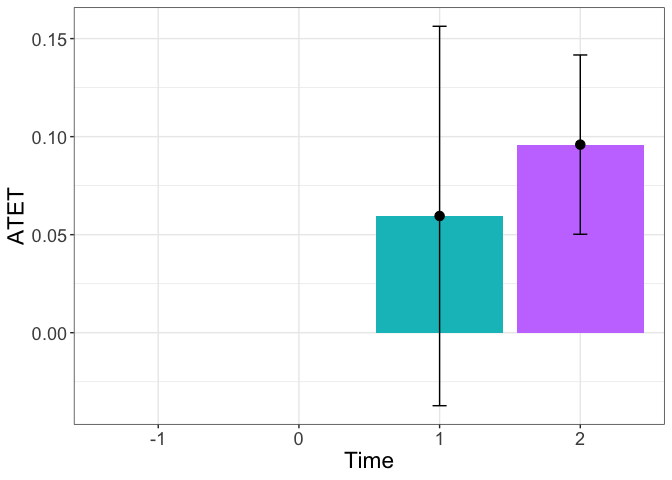
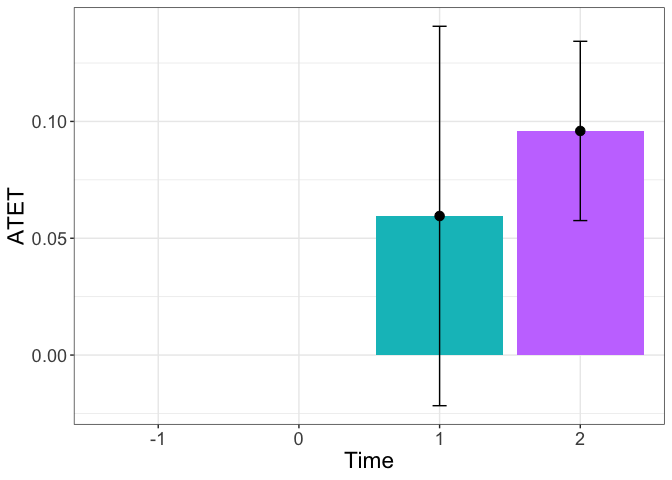
V1.0

diff --git a/docs/index.html b/docs/index.html
@@ -697,10 +697,13 @@
 <h4 id="time">time<a class="anchor" aria-label="anchor" href="#time"></a>
 </h4>
 <p>The heterogenous treatment effects over time show that the effect is significant in the second year after the treatment.</p>
+<blockquote>
+<p>Note that the graph shows the <strong>90%</strong> confidence interval bygiving the option <code>level = 90</code>.</p>
+</blockquote>
 <div class="sourceCode" id="cb30"><pre class="downlit sourceCode r">
 <code class="sourceCode R"><span><span class="va">tym1b_gr_time</span> <span class="op">&lt;-</span> <span class="fu"><a href="reference/didnpplot.html">didnpplot</a></span><span class="op">(</span></span>
 <span>  obj <span class="op">=</span> <span class="va">tym1b</span>,</span>
-<span>  level <span class="op">=</span> <span class="fl">95</span>,</span>
+<span>  level <span class="op">=</span> <span class="fl">90</span>,</span>
 <span>  by <span class="op">=</span> <span class="fu"><a href="https://rdrr.io/r/base/factor.html" class="external-link">factor</a></span><span class="op">(</span><span class="va">d0</span><span class="op">$</span><span class="va">t</span><span class="op">)</span><span class="op">[</span><span class="va">tym1b</span><span class="op">$</span><span class="va">esample</span><span class="op">]</span><span class="op">[</span><span class="va">tym1b</span><span class="op">$</span><span class="va">sample1</span><span class="op">]</span>,</span>
 <span>  xlab <span class="op">=</span> <span class="st">"Time"</span>,</span>
 <span>  ylab <span class="op">=</span> <span class="st">"ATET"</span></span>
@@ -772,7 +775,7 @@
 <div class="section level3">
 <h3 id="by-continuous-unemp">‘by’ continuous: unemp<a class="anchor" aria-label="anchor" href="#by-continuous-unemp"></a>
 </h3>
-<p>When the ‘by’ variable is continuous the <strong>didnpplot</strong> offers three ways of plotting the heterogeneous treatment effects.</p>
+<p>When the ‘by’ variable is continuous (the <strong>didnpplot</strong> command will recognize if <code>by</code> is a continuous variable) the <strong>didnpplot</strong> offers three ways of plotting the heterogeneous treatment effects.</p>
 <div class="section level4">
 <h4 id="scale-of-the-continuous-by-is-its-range">Scale of the continuous ‘by’ is its range<a class="anchor" aria-label="anchor" href="#scale-of-the-continuous-by-is-its-range"></a>
 </h4>
@@ -825,12 +828,20 @@
 <p><img src="reference/figures/README-tym1b_gr_unemp_each_value-2.png"><!-- --></p>
 <div class="sourceCode" id="cb38"><pre class="downlit sourceCode r">
 <code class="sourceCode R"><span><span class="co"># ggsave(paste0("atet_ci_unemp_numeric.pdf"), width = 15, height = 10, units = c("cm"))</span></span></code></pre></div>
+<p>Ameding ggplot object is easy. For example adding a 0 horizontal line is</p>
+<div class="sourceCode" id="cb39"><pre class="downlit sourceCode r">
+<code class="sourceCode R"><span><span class="va">tym1b_gr_unemp_each_value</span><span class="op">$</span><span class="va">plot.a</span> <span class="op">+</span></span>
+<span>  <span class="fu"><a href="https://ggplot2.tidyverse.org/reference/geom_abline.html" class="external-link">geom_hline</a></span><span class="op">(</span>yintercept <span class="op">=</span> <span class="fl">0</span><span class="op">)</span></span></code></pre></div>
+<p><img src="reference/figures/README-gr_age2-1.png"><!-- --></p>
+<blockquote>
+<p>Anternatively, one can use the <code>data.a</code> and <code>data.b</code> objects to plot from scratch.</p>
+</blockquote>
 </div>
 <div class="section level4">
 <h4 id="scale-of-the-continuous-by-intervals">Scale of the continuous ‘by’ intervals<a class="anchor" aria-label="anchor" href="#scale-of-the-continuous-by-intervals"></a>
 </h4>
 <p>Setting <code>by.continuous.scale</code> to a single number, instructs <strong>didnpplot</strong> to split the range of the continuous ‘by’ variable into the number of intervals specified by <code>by.continuous.scale</code> and plot ATET by intervals.</p>
-<div class="sourceCode" id="cb39"><pre class="downlit sourceCode r">
+<div class="sourceCode" id="cb40"><pre class="downlit sourceCode r">
 <code class="sourceCode R"><span><span class="va">tym1b_gr_unemp_n_intervals</span> <span class="op">&lt;-</span> <span class="fu"><a href="reference/didnpplot.html">didnpplot</a></span><span class="op">(</span></span>
 <span>  obj <span class="op">=</span> <span class="va">tym1b</span>,</span>
 <span>  level <span class="op">=</span> <span class="fl">95</span>,</span>
@@ -861,7 +872,7 @@
 <span><span class="co">#R&gt;  10  (9.3,9.97] -0.04334175 0.10649708    34       20</span></span>
 <span><span class="va">tym1b_gr_unemp_n_intervals</span><span class="op">$</span><span class="va">plot.a</span></span></code></pre></div>
 <p><img src="reference/figures/README-tym1b_gr_unemp_n_intervals-1.png"><!-- --></p>
-<div class="sourceCode" id="cb40"><pre class="downlit sourceCode r">
+<div class="sourceCode" id="cb41"><pre class="downlit sourceCode r">
 <code class="sourceCode R"><span><span class="co"># B</span></span>
 <span><span class="va">tym1b_gr_unemp_n_intervals</span><span class="op">$</span><span class="va">data.b</span></span>
 <span><span class="co">#R&gt;              by          atet    atet.sd count bySorted</span></span>
@@ -877,14 +888,14 @@
 <span><span class="co">#R&gt;  3  (12.7,13.7] -0.2578154370 0.41340096    45       20</span></span>
 <span><span class="va">tym1b_gr_unemp_n_intervals</span><span class="op">$</span><span class="va">plot.b</span></span></code></pre></div>
 <p><img src="reference/figures/README-tym1b_gr_unemp_n_intervals-2.png"><!-- --></p>
-<div class="sourceCode" id="cb41"><pre class="downlit sourceCode r">
+<div class="sourceCode" id="cb42"><pre class="downlit sourceCode r">
 <code class="sourceCode R"><span><span class="co"># ggsave(paste0("atet_ci_unemp_intervals.pdf"), width = 15, height = 10, units = c("cm"))</span></span></code></pre></div>
 </div>
 <div class="section level4">
 <h4 id="scale-of-the-continuous-by-a-vector">Scale of the continuous ‘by’ a vector<a class="anchor" aria-label="anchor" href="#scale-of-the-continuous-by-a-vector"></a>
 </h4>
 <p>Setting <code>by.continuous.scale</code> to a single number, instructs <strong>didnpplot</strong> to split the range of the continuous ‘by’ variable into intervals defined by the specified vector and plot ATET by intervals.</p>
-<div class="sourceCode" id="cb42"><pre class="downlit sourceCode r">
+<div class="sourceCode" id="cb43"><pre class="downlit sourceCode r">
 <code class="sourceCode R"><span><span class="va">tym1b_gr_unemp_vector_breaks</span> <span class="op">&lt;-</span> <span class="fu"><a href="reference/didnpplot.html">didnpplot</a></span><span class="op">(</span></span>
 <span>  obj <span class="op">=</span> <span class="va">tym1b</span>,</span>
 <span>  level <span class="op">=</span> <span class="fl">95</span>,</span>
@@ -910,7 +921,7 @@
 <span><span class="co">#R&gt;  4 (9,9.97] -0.02483015 0.07955994   506       15</span></span>
 <span><span class="va">tym1b_gr_unemp_vector_breaks</span><span class="op">$</span><span class="va">plot.a</span></span></code></pre></div>
 <p><img src="reference/figures/README-tym1b_gr_unemp_vector_breaks-1.png"><!-- --></p>
-<div class="sourceCode" id="cb43"><pre class="downlit sourceCode r">
+<div class="sourceCode" id="cb44"><pre class="downlit sourceCode r">
 <code class="sourceCode R"><span><span class="co"># B</span></span>
 <span><span class="va">tym1b_gr_unemp_vector_breaks</span><span class="op">$</span><span class="va">data.b</span></span>
 <span><span class="co">#R&gt;           by        atet    atet.sd count bySorted</span></span>
@@ -922,7 +933,7 @@
 <span><span class="co">#R&gt;  1 (12,13.7] -0.18357535 0.38223899   529       16</span></span>
 <span><span class="va">tym1b_gr_unemp_vector_breaks</span><span class="op">$</span><span class="va">plot.b</span></span></code></pre></div>
 <p><img src="reference/figures/README-tym1b_gr_unemp_vector_breaks-2.png"><!-- --></p>
-<div class="sourceCode" id="cb44"><pre class="downlit sourceCode r">
+<div class="sourceCode" id="cb45"><pre class="downlit sourceCode r">
 <code class="sourceCode R"><span><span class="co"># ggsave(paste0("atet_ci_unemp_breaks.pdf"), width = 15, height = 10, units = c("cm"))</span></span></code></pre></div>
 </div>
 </div>
@@ -936,7 +947,7 @@
 <h4 id="by-sex-over-is-time">‘by’: sex; ‘over’ is time<a class="anchor" aria-label="anchor" href="#by-sex-over-is-time"></a>
 </h4>
 <p>This is an example with treatment effects by sex over time.</p>
-<div class="sourceCode" id="cb45"><pre class="downlit sourceCode r">
+<div class="sourceCode" id="cb46"><pre class="downlit sourceCode r">
 <code class="sourceCode R"><span><span class="va">tym1b_gr_sex_time</span> <span class="op">&lt;-</span> <span class="fu"><a href="reference/didnpplot.html">didnpplot</a></span><span class="op">(</span></span>
 <span>  obj <span class="op">=</span> <span class="va">tym1b</span>,</span>
 <span>  level <span class="op">=</span> <span class="fl">95</span>,</span>
@@ -959,7 +970,7 @@
 <span><span class="co">#R&gt;  4  0.10445169 0.03725823   429 Female     2    2         14</span></span>
 <span><span class="va">tym1b_gr_sex_time</span><span class="op">$</span><span class="va">plot.a</span></span></code></pre></div>
 <p><img src="reference/figures/README-tym1b_gr_sex_time-1.png"><!-- --></p>
-<div class="sourceCode" id="cb46"><pre class="downlit sourceCode r">
+<div class="sourceCode" id="cb47"><pre class="downlit sourceCode r">
 <code class="sourceCode R"><span><span class="co"># B</span></span>
 <span><span class="va">tym1b_gr_sex_time</span><span class="op">$</span><span class="va">data.b</span></span>
 <span><span class="co">#R&gt;           atet    atet.sd count     by byold over overSorted bySorted</span></span>
@@ -973,14 +984,14 @@
 <span><span class="co">#R&gt;  4  0.08667750 0.06857070   395   Male     1    2         14       12</span></span>
 <span><span class="va">tym1b_gr_sex_time</span><span class="op">$</span><span class="va">plot.b</span></span></code></pre></div>
 <p><img src="reference/figures/README-tym1b_gr_sex_time-2.png"><!-- --></p>
-<div class="sourceCode" id="cb47"><pre class="downlit sourceCode r">
+<div class="sourceCode" id="cb48"><pre class="downlit sourceCode r">
 <code class="sourceCode R"><span><span class="co"># ggsave(paste0("atet_ci_sex_time.pdf"), width = 15, height = 10, units = c("cm"))</span></span></code></pre></div>
 </div>
 <div class="section level4">
 <h4 id="by-time-over-is-sex">‘by’: time; ‘over’ is sex<a class="anchor" aria-label="anchor" href="#by-time-over-is-sex"></a>
 </h4>
 <p>This is an example with treatment effects by time over sex, reversing the order of the previous graph.</p>
-<div class="sourceCode" id="cb48"><pre class="downlit sourceCode r">
+<div class="sourceCode" id="cb49"><pre class="downlit sourceCode r">
 <code class="sourceCode R"><span><span class="va">tym1b_gr_time_sex</span> <span class="op">&lt;-</span> <span class="fu"><a href="reference/didnpplot.html">didnpplot</a></span><span class="op">(</span></span>
 <span>  obj <span class="op">=</span> <span class="va">tym1b</span>,</span>
 <span>  level <span class="op">=</span> <span class="fl">95</span>,</span>
@@ -1003,7 +1014,7 @@
 <span><span class="co">#R&gt;  4  0.10445169 0.03725823   429  2 Female       2         12</span></span>
 <span><span class="va">tym1b_gr_time_sex</span><span class="op">$</span><span class="va">plot.a</span></span></code></pre></div>
 <p><img src="reference/figures/README-tym1b_gr_time_sex-1.png"><!-- --></p>
-<div class="sourceCode" id="cb49"><pre class="downlit sourceCode r">
+<div class="sourceCode" id="cb50"><pre class="downlit sourceCode r">
 <code class="sourceCode R"><span><span class="co"># B</span></span>
 <span><span class="va">tym1b_gr_time_sex</span><span class="op">$</span><span class="va">data.b</span></span>
 <span><span class="co">#R&gt;           atet    atet.sd count by   over overold overSorted bySorted</span></span>
@@ -1017,8 +1028,26 @@
 <span><span class="co">#R&gt;  8  0.10445169 0.03725823   429  2 Female       2         12       14</span></span>
 <span><span class="va">tym1b_gr_time_sex</span><span class="op">$</span><span class="va">plot.b</span></span></code></pre></div>
 <p><img src="reference/figures/README-tym1b_gr_time_sex-2.png"><!-- --></p>
-<div class="sourceCode" id="cb50"><pre class="downlit sourceCode r">
+<div class="sourceCode" id="cb51"><pre class="downlit sourceCode r">
 <code class="sourceCode R"><span><span class="co"># ggsave(paste0("atet_ci_time_sex.pdf"), width = 15, height = 10, units = c("cm"))</span></span></code></pre></div>
+<blockquote>
+<p>Alternatively use the data from the object <code>tym1b_gr_time_sex</code></p>
+</blockquote>
+<p>to produce another type of graph:</p>
+<div class="sourceCode" id="cb52"><pre class="downlit sourceCode r">
+<code class="sourceCode R"><span><span class="va">crit.value</span> <span class="op">&lt;-</span> <span class="fl">2</span></span>
+<span><span class="va">pd</span> <span class="op">&lt;-</span> <span class="fu"><a href="https://ggplot2.tidyverse.org/reference/position_dodge.html" class="external-link">position_dodge</a></span><span class="op">(</span><span class="fl">0.1</span><span class="op">)</span> <span class="co"># move them .05 to the left and right</span></span>
+<span><span class="va">d1</span> <span class="op">&lt;-</span> <span class="va">tym1b_gr_time_sex</span><span class="op">$</span><span class="va">data.b</span></span>
+<span><span class="va">d1</span><span class="op">$</span><span class="va">Sex</span> <span class="op">&lt;-</span> <span class="va">d1</span><span class="op">$</span><span class="va">over</span></span>
+<span><span class="fu"><a href="https://ggplot2.tidyverse.org/reference/ggplot.html" class="external-link">ggplot</a></span><span class="op">(</span><span class="va">d1</span>, <span class="fu"><a href="https://ggplot2.tidyverse.org/reference/aes.html" class="external-link">aes</a></span><span class="op">(</span>x <span class="op">=</span> <span class="va">by</span>, y <span class="op">=</span> <span class="va">atet</span>, color <span class="op">=</span> <span class="va">Sex</span>, group <span class="op">=</span> <span class="va">Sex</span><span class="op">)</span><span class="op">)</span> <span class="op">+</span></span>
+<span>  <span class="fu"><a href="https://ggplot2.tidyverse.org/reference/geom_linerange.html" class="external-link">geom_errorbar</a></span><span class="op">(</span><span class="fu"><a href="https://ggplot2.tidyverse.org/reference/aes.html" class="external-link">aes</a></span><span class="op">(</span>ymin <span class="op">=</span> <span class="va">atet</span> <span class="op">-</span> <span class="va">crit.value</span><span class="op">*</span><span class="va">atet.sd</span>, ymax <span class="op">=</span> <span class="va">atet</span> <span class="op">+</span> <span class="va">crit.value</span><span class="op">*</span><span class="va">atet.sd</span><span class="op">)</span>, color <span class="op">=</span> <span class="st">"black"</span>, width <span class="op">=</span> <span class="fl">.1</span>, position <span class="op">=</span> <span class="va">pd</span><span class="op">)</span> <span class="op">+</span></span>
+<span>  <span class="fu"><a href="https://ggplot2.tidyverse.org/reference/geom_path.html" class="external-link">geom_line</a></span><span class="op">(</span>position <span class="op">=</span> <span class="va">pd</span><span class="op">)</span> <span class="op">+</span></span>
+<span>  <span class="fu"><a href="https://ggplot2.tidyverse.org/reference/geom_point.html" class="external-link">geom_point</a></span><span class="op">(</span>position <span class="op">=</span> <span class="va">pd</span>, size <span class="op">=</span> <span class="fl">3</span>, shape <span class="op">=</span> <span class="fl">21</span>, fill <span class="op">=</span> <span class="st">"white"</span><span class="op">)</span> <span class="op">+</span></span>
+<span>  <span class="fu"><a href="https://ggplot2.tidyverse.org/reference/labs.html" class="external-link">xlab</a></span><span class="op">(</span><span class="st">"Time"</span><span class="op">)</span> <span class="op">+</span></span>
+<span>  <span class="fu"><a href="https://ggplot2.tidyverse.org/reference/labs.html" class="external-link">ylab</a></span><span class="op">(</span><span class="st">"ATET"</span><span class="op">)</span> <span class="op">+</span></span>
+<span>  <span class="fu"><a href="https://ggplot2.tidyverse.org/reference/ggtheme.html" class="external-link">theme_bw</a></span><span class="op">(</span><span class="op">)</span> <span class="op">+</span></span>
+<span>  <span class="fu"><a href="https://ggplot2.tidyverse.org/reference/theme.html" class="external-link">theme</a></span><span class="op">(</span>legend.position <span class="op">=</span> <span class="st">"right"</span>, text <span class="op">=</span> <span class="fu"><a href="https://ggplot2.tidyverse.org/reference/element.html" class="external-link">element_text</a></span><span class="op">(</span>size <span class="op">=</span> <span class="fl">17</span><span class="op">)</span><span class="op">)</span></span></code></pre></div>
+<p><img src="reference/figures/README-gr_age_race2-1.png"><!-- --></p>
 </div>
 </div>
 <div class="section level3">
@@ -1029,7 +1058,7 @@
 <h4 id="scale-of-the-continuous-by-is-its-range-1">Scale of the continuous ‘by’ is its range<a class="anchor" aria-label="anchor" href="#scale-of-the-continuous-by-is-its-range-1"></a>
 </h4>
 <p><code>by.continuous.scale</code> is not specified or <code>NULL</code>.</p>
-<div class="sourceCode" id="cb51"><pre class="downlit sourceCode r">
+<div class="sourceCode" id="cb53"><pre class="downlit sourceCode r">
 <code class="sourceCode R"><span><span class="va">tym1b_gr_unemp_each_value_sex</span> <span class="op">&lt;-</span> <span class="fu"><a href="reference/didnpplot.html">didnpplot</a></span><span class="op">(</span></span>
 <span>  obj <span class="op">=</span> <span class="va">tym1b</span>,</span>
 <span>  level <span class="op">=</span> <span class="fl">95</span>,</span>
@@ -1056,7 +1085,7 @@
 <span><span class="co">#R&gt;  6   -0.56573149 0.2873870     3 4.208333   Male       1       14</span></span>
 <span><span class="va">tym1b_gr_unemp_each_value_sex</span><span class="op">$</span><span class="va">plot.a</span></span></code></pre></div>
 <p><img src="reference/figures/README-tym1b_gr_unemp_each_value_sex-1.png"><!-- --></p>
-<div class="sourceCode" id="cb52"><pre class="downlit sourceCode r">
+<div class="sourceCode" id="cb54"><pre class="downlit sourceCode r">
 <code class="sourceCode R"><span><span class="co"># B</span></span>
 <span><span class="fu"><a href="https://rdrr.io/r/utils/head.html" class="external-link">head</a></span><span class="op">(</span><span class="va">tym1b_gr_unemp_each_value_sex</span><span class="op">$</span><span class="va">data.b</span><span class="op">)</span></span>
 <span><span class="co">#R&gt;             atet    atet.sd count       by   over overold bySorted</span></span>
@@ -1068,14 +1097,14 @@
 <span><span class="co">#R&gt;  120 -0.13106238 0.09535865   117 8.191667 Female       2      102</span></span>
 <span><span class="va">tym1b_gr_unemp_each_value_sex</span><span class="op">$</span><span class="va">plot.b</span></span></code></pre></div>
 <p><img src="reference/figures/README-tym1b_gr_unemp_each_value_sex-2.png"><!-- --></p>
-<div class="sourceCode" id="cb53"><pre class="downlit sourceCode r">
+<div class="sourceCode" id="cb55"><pre class="downlit sourceCode r">
 <code class="sourceCode R"><span><span class="co"># ggsave(paste0("atet_ci_unemp_sex_numeric.pdf"), width = 15, height = 10, units = c("cm"))</span></span></code></pre></div>
 </div>
 <div class="section level4">
 <h4 id="scale-of-the-continuous-by-intervals-1">Scale of the continuous ‘by’ intervals<a class="anchor" aria-label="anchor" href="#scale-of-the-continuous-by-intervals-1"></a>
 </h4>
 <p><code>by.continuous.scale</code> is a scalar.</p>
-<div class="sourceCode" id="cb54"><pre class="downlit sourceCode r">
+<div class="sourceCode" id="cb56"><pre class="downlit sourceCode r">
 <code class="sourceCode R"><span><span class="va">tym1b_gr_unemp_intervals_sex</span> <span class="op">&lt;-</span> <span class="fu"><a href="reference/didnpplot.html">didnpplot</a></span><span class="op">(</span></span>
 <span>  obj <span class="op">=</span> <span class="va">tym1b</span>,</span>
 <span>  level <span class="op">=</span> <span class="fl">95</span>,</span>
@@ -1125,7 +1154,7 @@
 <span><span class="co">#R&gt;  28 -0.209722396 0.13675872    15 (9.52,9.97] Female       2       25</span></span>
 <span><span class="va">tym1b_gr_unemp_intervals_sex</span><span class="op">$</span><span class="va">plot.a</span></span></code></pre></div>
 <p><img src="reference/figures/README-tym1b_gr_unemp_intervals_sex-1.png"><!-- --></p>
-<div class="sourceCode" id="cb55"><pre class="downlit sourceCode r">
+<div class="sourceCode" id="cb57"><pre class="downlit sourceCode r">
 <code class="sourceCode R"><span><span class="co"># B</span></span>
 <span><span class="va">tym1b_gr_unemp_intervals_sex</span><span class="op">$</span><span class="va">data.b</span></span>
 <span><span class="co">#R&gt;            atet    atet.sd count          by   over overold bySorted</span></span>
@@ -1159,14 +1188,14 @@
 <span><span class="co">#R&gt;  28 -0.45991647 0.42790909    24   (13,13.7] Female       2       25</span></span>
 <span><span class="va">tym1b_gr_unemp_intervals_sex</span><span class="op">$</span><span class="va">plot.b</span></span></code></pre></div>
 <p><img src="reference/figures/README-tym1b_gr_unemp_intervals_sex-2.png"><!-- --></p>
-<div class="sourceCode" id="cb56"><pre class="downlit sourceCode r">
+<div class="sourceCode" id="cb58"><pre class="downlit sourceCode r">
 <code class="sourceCode R"><span><span class="co"># ggsave(paste0("atet_ci_unemp_sex_intervals.pdf"), width = 15, height = 10, units = c("cm"))</span></span></code></pre></div>
 </div>
 <div class="section level4">
 <h4 id="scale-of-the-continuous-by-a-vector-1">Scale of the continuous ‘by’ a vector<a class="anchor" aria-label="anchor" href="#scale-of-the-continuous-by-a-vector-1"></a>
 </h4>
 <p><code>by.continuous.scale</code> is a vector. Note even if the user provides an interval wider than the range of the continuous ‘by’ variable <strong>didnpplot</strong> will take care of that and define the plausible range for plotting. In this example, <code>print.level = 2</code> option is used to show the working of the <strong>didnpplot</strong> command.</p>
-<div class="sourceCode" id="cb57"><pre class="downlit sourceCode r">
+<div class="sourceCode" id="cb59"><pre class="downlit sourceCode r">
 <code class="sourceCode R"><span><span class="va">tym1b_gr_unemp_breaks_sex</span> <span class="op">&lt;-</span> <span class="fu"><a href="reference/didnpplot.html">didnpplot</a></span><span class="op">(</span></span>
 <span>  obj <span class="op">=</span> <span class="va">tym1b</span>,</span>
 <span>  level <span class="op">=</span> <span class="fl">95</span>,</span>
@@ -1290,7 +1319,7 @@
 <span><span class="co">#R&gt;  14 -0.26385061 0.06719624   232 (9,9.97] Female       2       17</span></span>
 <span><span class="va">tym1b_gr_unemp_breaks_sex</span><span class="op">$</span><span class="va">plot.a</span></span></code></pre></div>
 <p><img src="reference/figures/README-tym1b_gr_unemp_breaks_sex-1.png"><!-- --></p>
-<div class="sourceCode" id="cb58"><pre class="downlit sourceCode r">
+<div class="sourceCode" id="cb60"><pre class="downlit sourceCode r">
 <code class="sourceCode R"><span><span class="co"># B</span></span>
 <span><span class="va">tym1b_gr_unemp_breaks_sex</span><span class="op">$</span><span class="va">data.b</span></span>
 <span><span class="co">#R&gt;            atet    atet.sd count        by   over overold bySorted</span></span>
@@ -1318,7 +1347,7 @@
 <span><span class="co">#R&gt;  22 -0.45991647 0.42790909    24 (13,13.7] Female       2       21</span></span>
 <span><span class="va">tym1b_gr_unemp_breaks_sex</span><span class="op">$</span><span class="va">plot.b</span></span></code></pre></div>
 <p><img src="reference/figures/README-tym1b_gr_unemp_breaks_sex-2.png"><!-- --></p>
-<div class="sourceCode" id="cb59"><pre class="downlit sourceCode r">
+<div class="sourceCode" id="cb61"><pre class="downlit sourceCode r">
 <code class="sourceCode R"><span><span class="co"># ggsave(paste0("atet_ci_unemp_sex_breaks.pdf"), width = 15, height = 10, units = c("cm"))</span></span></code></pre></div>
 </div>
 </div>

diff --git a/README.md b/README.md
@@ -720,10 +720,13 @@ amended further.
 The heterogenous treatment effects over time show that the effect is
 significant in the second year after the treatment.
 
+> Note that the graph shows the **90%** confidence interval bygiving the
+> option `level = 90`.
+
 ``` r
 tym1b_gr_time <- didnpplot(
   obj = tym1b,
-  level = 95,
+  level = 90,
   by = factor(d0$t)[tym1b$esample][tym1b$sample1],
   xlab = "Time",
   ylab = "ATET"
@@ -808,8 +811,9 @@ tym1b_gr_sex$plot.b
 
 ### ‘by’ continuous: unemp
 
-When the ‘by’ variable is continuous the **didnpplot** offers three ways
-of plotting the heterogeneous treatment effects.
+When the ‘by’ variable is continuous (the **didnpplot** command will
+recognize if `by` is a continuous variable) the **didnpplot** offers
+three ways of plotting the heterogeneous treatment effects.
 
 #### Scale of the continuous ‘by’ is its range
 
@@ -872,6 +876,18 @@ tym1b_gr_unemp_each_value$plot.b
 ``` r
 # ggsave(paste0("atet_ci_unemp_numeric.pdf"), width = 15, height = 10, units = c("cm"))
 ```
+
+Ameding ggplot object is easy. For example adding a 0 horizontal line is
+
+``` r
+tym1b_gr_unemp_each_value$plot.a +
+  geom_hline(yintercept = 0)
+```
+
+![](man/figures/README-gr_age2-1.png)<!-- -->
+
+> Anternatively, one can use the `data.a` and `data.b` objects to plot
+> from scratch.
 
 #### Scale of the continuous ‘by’ intervals
 
@@ -1098,6 +1114,27 @@ tym1b_gr_time_sex$plot.b
 ``` r
 # ggsave(paste0("atet_ci_time_sex.pdf"), width = 15, height = 10, units = c("cm"))
 ```
+
+> Alternatively use the data from the object `tym1b_gr_time_sex`
+
+to produce another type of graph:
+
+``` r
+crit.value <- 2
+pd <- position_dodge(0.1) # move them .05 to the left and right
+d1 <- tym1b_gr_time_sex$data.b
+d1$Sex <- d1$over
+ggplot(d1, aes(x = by, y = atet, color = Sex, group = Sex)) +
+  geom_errorbar(aes(ymin = atet - crit.value*atet.sd, ymax = atet + crit.value*atet.sd), color = "black", width = .1, position = pd) +
+  geom_line(position = pd) +
+  geom_point(position = pd, size = 3, shape = 21, fill = "white") +
+  xlab("Time") +
+  ylab("ATET") +
+  theme_bw() +
+  theme(legend.position = "right", text = element_text(size = 17))
+```
+
+![](man/figures/README-gr_age_race2-1.png)<!-- -->
 
 ### ‘by’ continuous: unemp + ‘over’
 
@@ -1424,3 +1461,7 @@ tym1b_gr_unemp_breaks_sex$plot.b
 ``` r
 # ggsave(paste0("atet_ci_unemp_sex_breaks.pdf"), width = 15, height = 10, units = c("cm"))
 ```
+
+## Additional Resources
+
+To be added
